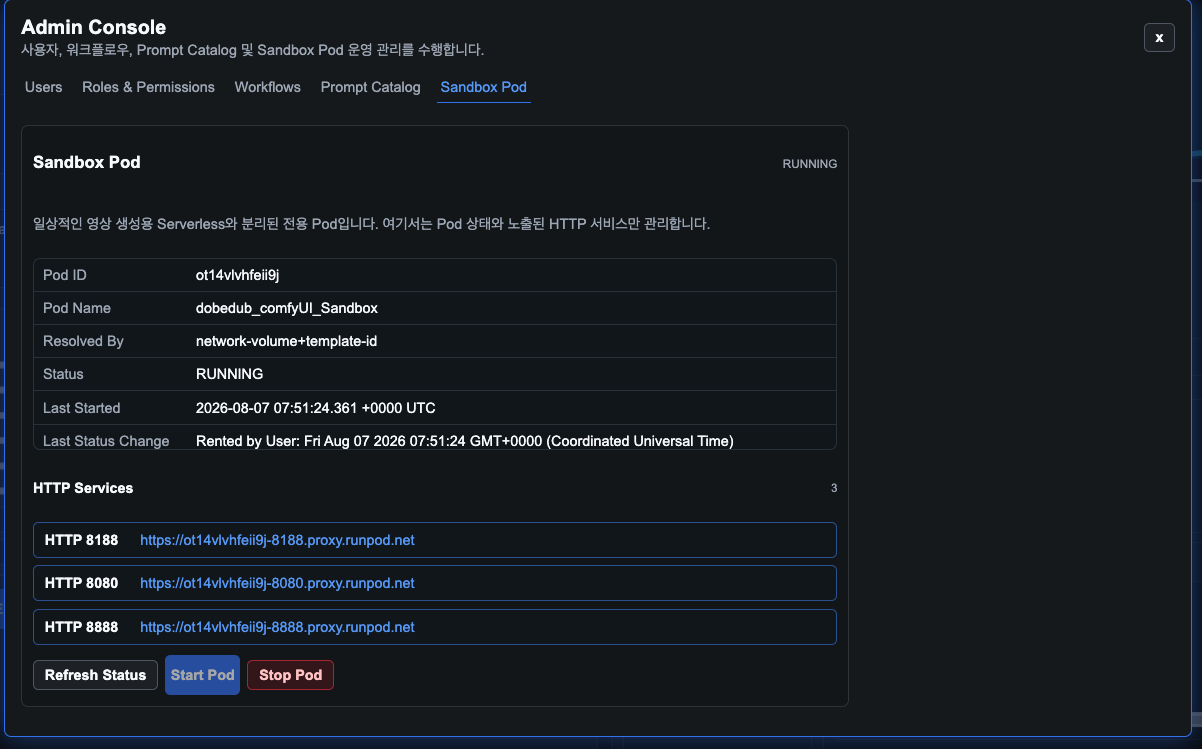
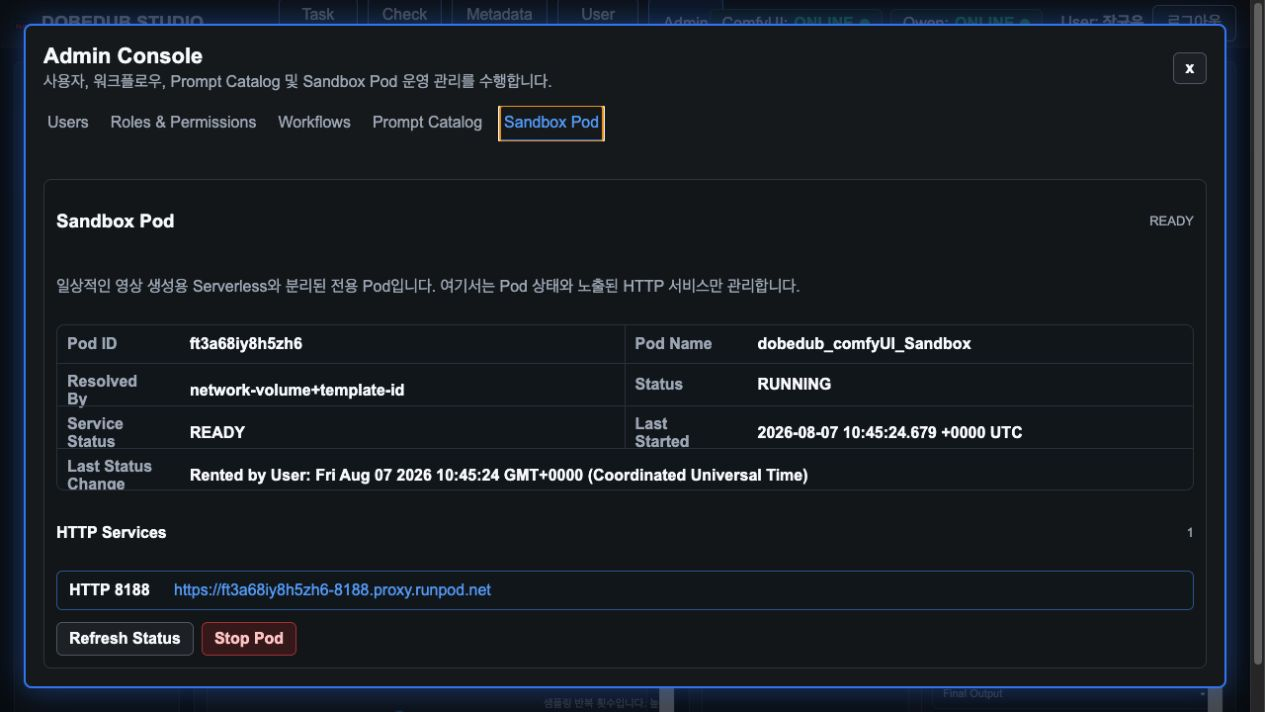
fix: keep sandbox pod details visible

diff --git a/frontend/src/main.tsx b/frontend/src/main.tsx
@@ -2654,44 +2654,42 @@ function AdminConsoleModal({
           </div>
         ) : null}
         {activeTab === "sandbox" && canManageSandboxPod ? (
-          <section className="admin-form sandbox-pod-panel">
-            <div className="section-title">
-              <h3>Sandbox Pod</h3>
-              <span>{sandboxPod?.runtimeStatus || sandboxPod?.desiredStatus || "NOT CHECKED"}</span>
-            </div>
-            <p className="muted-text">일상적인 영상 생성용 Serverless와 분리된 전용 Pod입니다. 여기서는 Pod 상태와 노출된 HTTP 서비스만 관리합니다.</p>
-            {!sandboxPod && sandboxPodLoading ? <p className="muted-text">Sandbox Pod 상태를 확인 중입니다.</p> : null}
-            {sandboxPod ? (
-              <>
-                <div className="admin-detail-card">
-                  <table>
-                    <tbody>
-                      <tr><td>Pod ID</td><td>{sandboxPod.podId || "-"}</td></tr>
-                      <tr><td>Pod Name</td><td>{sandboxPod.podName || "-"}</td></tr>
-                      <tr><td>Resolved By</td><td>{sandboxPod.resolvedBy || "Pod ID (legacy)"}</td></tr>
-                      <tr><td>Status</td><td>{sandboxPod.desiredStatus || "UNKNOWN"}</td></tr>
-                      <tr><td>Service Status</td><td>{sandboxPod.runtimeStatus || "NOT CHECKED"}</td></tr>
-                      <tr><td>Last Started</td><td>{sandboxPod.lastStartedAt || "-"}</td></tr>
-                      <tr><td>Last Status Change</td><td>{sandboxPod.lastStatusChange || "-"}</td></tr>
-                    </tbody>
-                  </table>
-                </div>
-                <section className="sandbox-service-list">
-                  <div className="section-title"><h4>HTTP Services</h4><span>{sandboxPod.httpServices.length}</span></div>
-                  {sandboxPod.httpServices.length ? sandboxPod.httpServices.map((service) => (
-                    <a className="sandbox-service-link" href={service.url} key={service.url} rel="noreferrer" target="_blank">
-                      <strong>{service.label || `HTTP ${service.internalPort}`}</strong><span>{service.url}</span>
-                    </a>
-                  )) : <p className="muted-text">{sandboxPod.message || "노출된 HTTP 서비스가 없습니다."}</p>}
-                </section>
-              </>
-            ) : null}
-            <div className="modal-actions">
-              <button className="secondary-button" disabled={sandboxPodLoading} type="button" onClick={() => void loadSandboxPod()}>Refresh Status</button>
-              {canUse(user, "sandbox:control") && ["EXITED", "TERMINATED"].includes(sandboxPod?.desiredStatus || "") ? <button className="primary-button" disabled={sandboxPodLoading || !sandboxPod || sandboxPod.configured === false} type="button" onClick={() => setSandboxPodPendingAction("start")}>Deploy Sandbox Pod</button> : null}
-              {canUse(user, "sandbox:control") ? <button className="danger-button" disabled={sandboxPodLoading || !sandboxPod || sandboxPod.configured === false || sandboxPod.desiredStatus === "EXITED" || sandboxPod.desiredStatus === "TERMINATED"} type="button" onClick={() => setSandboxPodPendingAction("stop")}>Stop Pod</button> : null}
-            </div>
-          </section>
+          <div className="admin-sandbox-layout">
+            <section className="admin-form sandbox-pod-panel">
+              <div className="section-title">
+                <h3>Sandbox Pod</h3>
+                <span>{sandboxPod?.runtimeStatus || sandboxPod?.desiredStatus || "NOT CHECKED"}</span>
+              </div>
+              <p className="muted-text">일상적인 영상 생성용 Serverless와 분리된 전용 Pod입니다. 여기서는 Pod 상태와 노출된 HTTP 서비스만 관리합니다.</p>
+              {!sandboxPod && sandboxPodLoading ? <p className="muted-text">Sandbox Pod 상태를 확인 중입니다.</p> : null}
+              {sandboxPod ? (
+                <>
+                  <dl className="sandbox-pod-details">
+                    <div><dt>Pod ID</dt><dd>{sandboxPod.podId || "-"}</dd></div>
+                    <div><dt>Pod Name</dt><dd>{sandboxPod.podName || "-"}</dd></div>
+                    <div><dt>Resolved By</dt><dd>{sandboxPod.resolvedBy || "Pod ID (legacy)"}</dd></div>
+                    <div><dt>Status</dt><dd>{sandboxPod.desiredStatus || "UNKNOWN"}</dd></div>
+                    <div><dt>Service Status</dt><dd>{sandboxPod.runtimeStatus || "NOT CHECKED"}</dd></div>
+                    <div><dt>Last Started</dt><dd>{sandboxPod.lastStartedAt || "-"}</dd></div>
+                    <div><dt>Last Status Change</dt><dd>{sandboxPod.lastStatusChange || "-"}</dd></div>
+                  </dl>
+                  <section className="sandbox-service-list">
+                    <div className="section-title"><h4>HTTP Services</h4><span>{sandboxPod.httpServices.length}</span></div>
+                    {sandboxPod.httpServices.length ? sandboxPod.httpServices.map((service) => (
+                      <a className="sandbox-service-link" href={service.url} key={service.url} rel="noreferrer" target="_blank">
+                        <strong>{service.label || `HTTP ${service.internalPort}`}</strong><span>{service.url}</span>
+                      </a>
+                    )) : <p className="muted-text">{sandboxPod.message || "노출된 HTTP 서비스가 없습니다."}</p>}
+                  </section>
+                </>
+              ) : null}
+              <div className="modal-actions">
+                <button className="secondary-button" disabled={sandboxPodLoading} type="button" onClick={() => void loadSandboxPod()}>Refresh Status</button>
+                {canUse(user, "sandbox:control") && ["EXITED", "TERMINATED"].includes(sandboxPod?.desiredStatus || "") ? <button className="primary-button" disabled={sandboxPodLoading || !sandboxPod || sandboxPod.configured === false} type="button" onClick={() => setSandboxPodPendingAction("start")}>Deploy Sandbox Pod</button> : null}
+                {canUse(user, "sandbox:control") ? <button className="danger-button" disabled={sandboxPodLoading || !sandboxPod || sandboxPod.configured === false || sandboxPod.desiredStatus === "EXITED" || sandboxPod.desiredStatus === "TERMINATED"} type="button" onClick={() => setSandboxPodPendingAction("stop")}>Stop Pod</button> : null}
+              </div>
+            </section>
+          </div>
         ) : null}
         {activeTab === "catalog" && canManageCatalog ? (
           <section className="admin-catalog-panel">

diff --git a/frontend/src/styles.css b/frontend/src/styles.css
@@ -1808,6 +1808,12 @@ textarea {
   overflow: hidden;
 }
 
+.admin-sandbox-layout {
+  grid-row: 4;
+  min-height: 0;
+  overflow: hidden;
+}
+
 .admin-list,
 .admin-form {
   background: var(--surface);
@@ -1881,8 +1887,59 @@ textarea {
 }
 
 .sandbox-pod-panel {
-  max-width: 920px;
+  align-content: start;
+  height: 100%;
+  max-width: none;
   overflow-y: auto;
+  width: 100%;
+}
+
+.sandbox-pod-details {
+  background: #10161d;
+  border: 1px solid #303741;
+  border-radius: 8px;
+  display: grid;
+  grid-template-columns: repeat(2, minmax(0, 1fr));
+  margin: 0;
+  overflow: hidden;
+}
+
+.sandbox-pod-details > div {
+  min-width: 0;
+  display: grid;
+  gap: 12px;
+  grid-template-columns: 112px minmax(0, 1fr);
+  min-height: 38px;
+}
+
+.sandbox-pod-details > div:nth-child(n + 3) {
+  border-top: 1px solid #303741;
+}
+
+.sandbox-pod-details > div:nth-child(odd):not(:last-child) {
+  border-right: 1px solid #303741;
+}
+
+.sandbox-pod-details > div:last-child {
+  grid-column: 1 / -1;
+}
+
+.sandbox-pod-details dt,
+.sandbox-pod-details dd {
+  align-self: center;
+  margin: 0;
+  overflow-wrap: anywhere;
+  padding: 9px 10px;
+}
+
+.sandbox-pod-details dt {
+  color: var(--muted);
+  font-weight: 700;
+}
+
+.sandbox-pod-details dd {
+  color: var(--text);
+  font-weight: 650;
 }
 
 .sandbox-service-list {
@@ -3208,6 +3265,7 @@ textarea {
   }
 
   .admin-layout,
+  .admin-sandbox-layout,
   .catalog-admin-layout,
   .catalog-term-layout,
   .catalog-form-grid {
@@ -3215,8 +3273,39 @@ textarea {
   }
 
   .admin-layout,
+  .admin-sandbox-layout,
   .catalog-admin-layout {
     overflow-y: auto;
+  }
+
+  .sandbox-pod-panel {
+    height: auto;
+    max-width: none;
+  }
+
+  .sandbox-pod-details > div {
+    gap: 6px;
+    grid-template-columns: 1fr;
+  }
+
+  .sandbox-pod-details {
+    grid-template-columns: 1fr;
+  }
+
+  .sandbox-pod-details > div:nth-child(odd):not(:last-child) {
+    border-right: 0;
+  }
+
+  .sandbox-pod-details > div:nth-child(n + 2) {
+    border-top: 1px solid #303741;
+  }
+
+  .sandbox-pod-details dt {
+    padding-bottom: 0;
+  }
+
+  .sandbox-pod-details dd {
+    padding-top: 0;
   }
 
   .admin-list,

diff --git a/scripts/frontend_smoke_check.py b/scripts/frontend_smoke_check.py
@@ -86,6 +86,9 @@ def main() -> None:
     assert "function MetadataModal" in main_tsx
     assert "function AdminConsoleModal" in main_tsx
     assert "Admin Console" in main_tsx
+    assert "admin-sandbox-layout" in main_tsx
+    assert "sandbox-pod-details" in main_tsx
+    assert "Service Status" in main_tsx
     assert "Users" in main_tsx
     assert "Roles & Permissions" in main_tsx
     assert "Workflows" in main_tsx

diff --git a/docs/dobedub-studio-user-manual.md b/docs/dobedub-studio-user-manual.md
@@ -24,6 +24,7 @@
 | 2026-08-07 | Sandbox Pod 연결 정보가 별도 관리되지 않음 | Admin의 Sandbox Pod 탭에서 전용 Pod 시작/중지, 상태 및 HTTP 서비스 주소 조회 | 영상 생성용 Serverless와 분리 |
 | 2026-08-07 | Sandbox Pod ID/이름을 고정 설정 | Network Volume ID와 Template ID로 현재 Pod ID와 HTTP URL을 매 요청마다 재해결 | RunPod migration 대응 |
 | 2026-08-07 | Sandbox Pod의 여러 HTTP 포트와 단순 RUNNING 상태만 표시 | ComfyUI `8188` 단일 서비스 주소와 `INITIALIZING`/`READY` 준비 상태 표시, 중지 후에는 Template·Network Volume 기반 새 Pod 배포 | Sandbox 운영 화면 현행화 |
+| 2026-08-07 | 창 높이가 낮을 때 Sandbox Pod 상세 표의 하단 행이 접힘 | 반응형 2열 상세 행과 내부 스크롤로 변경하여 Pod 상태, 서비스 상태, 시작/변경 시각을 유지 | Admin Console 화면 안정화 |
 
 ## 목차
 
